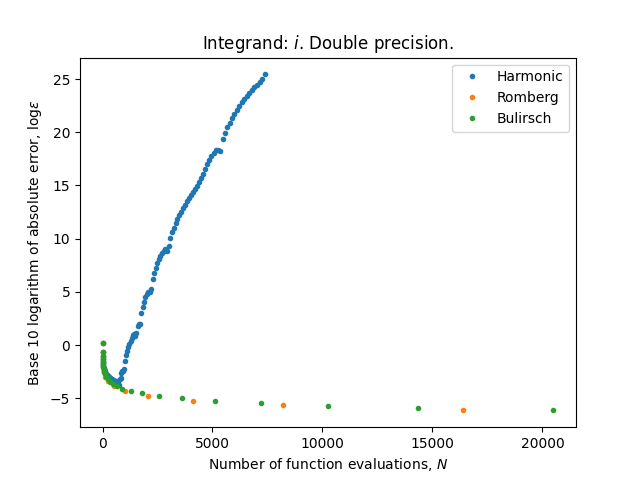
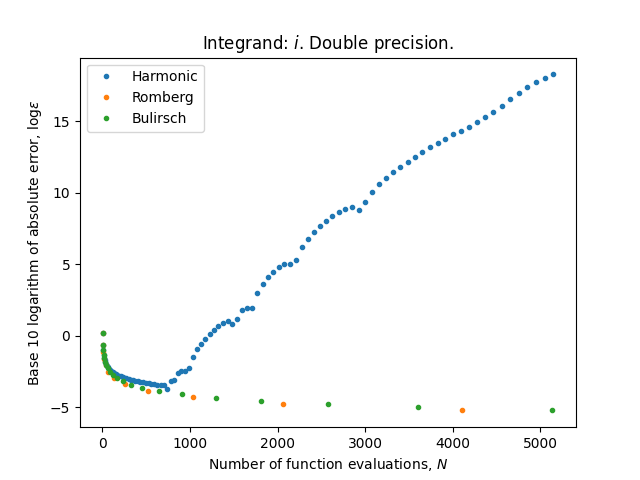
Use fewer interpolation steps in romberg with double precision

diff --git a/romberg.py b/romberg.py
@@ -40,65 +40,65 @@ def define_examples():
 
     integrand = Integration(lambda x: math.cos(x)**2, lambda x: math.sin(2*x) / 4 + x / 2, 0, math.pi, '$f$', 'cos_squared')
     integrands.append(integrand)
-    results_harmonic = analyze(integrand, tr, harmonic, False)
-    results_romberg = analyze(integrand, tr, romberg, False)
-    results_bulirsch = analyze(integrand, tr, bulirsch, False)
+    results_harmonic = analyze(integrand, tr, harmonic_short, False)
+    results_romberg = analyze(integrand, tr, romberg_short, False)
+    results_bulirsch = analyze(integrand, tr, bulirsch_short, False)
     results_int_seq.append([results_harmonic, results_romberg, results_bulirsch])
 
     integrand = Integration(lambda x: 1 / (0.0001 + x**2), lambda x: 100 * math.atan(100 * x), -1, 1, '$g_{10^{-2}}$', 'g_hundredth')
     integrands.append(integrand)
-    results_harmonic = analyze(integrand, tr, harmonic, False)
-    results_romberg = analyze(integrand, tr, romberg, False)
-    results_bulirsch = analyze(integrand, tr, bulirsch, False)
+    results_harmonic = analyze(integrand, tr, harmonic_short, False)
+    results_romberg = analyze(integrand, tr, romberg_short, False)
+    results_bulirsch = analyze(integrand, tr, bulirsch_short, False)
     results_int_seq.append([results_harmonic, results_romberg, results_bulirsch])
 
     integrand = Integration(lambda x: 1 / (0.01 + x**2), lambda x: 10 * math.atan(10 * x), -1, 1, '$g_{10^{-1}}$','g_tenth')
     integrands.append(integrand)
-    results_harmonic = analyze(integrand, tr, harmonic, False)
-    results_romberg = analyze(integrand, tr, romberg, False)
-    results_bulirsch = analyze(integrand, tr, bulirsch, False)
+    results_harmonic = analyze(integrand, tr, harmonic_short, False)
+    results_romberg = analyze(integrand, tr, romberg_short, False)
+    results_bulirsch = analyze(integrand, tr, bulirsch_short, False)
     results_int_seq.append([results_harmonic, results_romberg, results_bulirsch])
 
     integrand = Integration(lambda x: 1 / (1 + x**2), lambda x: math.atan(x), -1, 1, '$g_1$', 'g_one')
     integrands.append(integrand)
-    results_harmonic = analyze(integrand, tr, harmonic, False)
-    results_romberg = analyze(integrand, tr, romberg, False)
-    results_bulirsch = analyze(integrand, tr, bulirsch, False)
+    results_harmonic = analyze(integrand, tr, harmonic_short, False)
+    results_romberg = analyze(integrand, tr, romberg_short, False)
+    results_bulirsch = analyze(integrand, tr, bulirsch_short, False)
     results_int_seq.append([results_harmonic, results_romberg, results_bulirsch])
 
     integrand = Integration(lambda x: math.log(x + 0.0001), lambda x: (x + 0.0001) * math.log(x + 0.0001) - x, 0, 1, '$h_{10^{-4}}$','h_tenthousandth')
     integrands.append(integrand)
-    results_harmonic = analyze(integrand, tr, harmonic, False)
-    results_romberg = analyze(integrand, tr, romberg, False)
-    results_bulirsch = analyze(integrand, tr, bulirsch, False)
+    results_harmonic = analyze(integrand, tr, harmonic_short, False)
+    results_romberg = analyze(integrand, tr, romberg_short, False)
+    results_bulirsch = analyze(integrand, tr, bulirsch_short, False)
     results_int_seq.append([results_harmonic, results_romberg, results_bulirsch])
 
     integrand = Integration(lambda x: math.log(x + 0.01), lambda x: (x + 0.01) * math.log(x + 0.01) - x, 0, 1, '$h_{10^{-2}}$', 'h_hundredth')
     integrands.append(integrand)
-    results_harmonic = analyze(integrand, tr, harmonic, False)
-    results_romberg = analyze(integrand, tr, romberg, False)
-    results_bulirsch = analyze(integrand, tr, bulirsch, False)
+    results_harmonic = analyze(integrand, tr, harmonic_short, False)
+    results_romberg = analyze(integrand, tr, romberg_short, False)
+    results_bulirsch = analyze(integrand, tr, bulirsch_short, False)
     results_int_seq.append([results_harmonic, results_romberg, results_bulirsch])
 
     integrand = Integration(lambda x: math.log(x + 1), lambda x: (x + 1) * math.log(x + 1) - x, 0, 1, '$h_1$', 'h_one')
     integrands.append(integrand)
-    results_harmonic = analyze(integrand, tr, harmonic, False)
-    results_romberg = analyze(integrand, tr, romberg, False)
-    results_bulirsch = analyze(integrand, tr, bulirsch, False)
+    results_harmonic = analyze(integrand, tr, harmonic_short, False)
+    results_romberg = analyze(integrand, tr, romberg_short, False)
+    results_bulirsch = analyze(integrand, tr, bulirsch_short, False)
     results_int_seq.append([results_harmonic, results_romberg, results_bulirsch])
 
     integrand = Integration(lambda x: math.sqrt(1 - x**2), lambda x: (x * math.sqrt(1 - x**2) + math.asin(x)) / 2, -1, 1, '$i$', 'circle_area')
     integrands.append(integrand)
-    results_harmonic = analyze(integrand, tr, harmonic, False)
-    results_romberg = analyze(integrand, tr, romberg, False)
-    results_bulirsch = analyze(integrand, tr, bulirsch, False)
+    results_harmonic = analyze(integrand, tr, harmonic_short, False)
+    results_romberg = analyze(integrand, tr, romberg_short, False)
+    results_bulirsch = analyze(integrand, tr, bulirsch_short, False)
     results_int_seq.append([results_harmonic, results_romberg, results_bulirsch])
 
     integrand = Integration(lambda x: 2 * math.exp(-(x**2)) / math.sqrt(math.pi), lambda x: math.erf(x), 0, 1, '$j$', 'gaussian')
     integrands.append(integrand)
-    results_harmonic = analyze(integrand, tr, harmonic, False)
-    results_romberg = analyze(integrand, tr, romberg, False)
-    results_bulirsch = analyze(integrand, tr, bulirsch, False)
+    results_harmonic = analyze(integrand, tr, harmonic_short, False)
+    results_romberg = analyze(integrand, tr, romberg_short, False)
+    results_bulirsch = analyze(integrand, tr, bulirsch_short, False)
     results_int_seq.append([results_harmonic, results_romberg, results_bulirsch])
 
     return (results_int_seq, integrands)
@@ -228,6 +228,10 @@ def plot_q_h():
 harmonic = harmonic_seq(120)
 romberg = romberg_seq(14)
 bulirsch = bulirsch_seq(25)
+
+harmonic_short = harmonic_seq(100)
+romberg_short = romberg_seq(12)
+bulirsch_short = bulirsch_seq(21)
 
 seqs = [harmonic, romberg, bulirsch]
 
